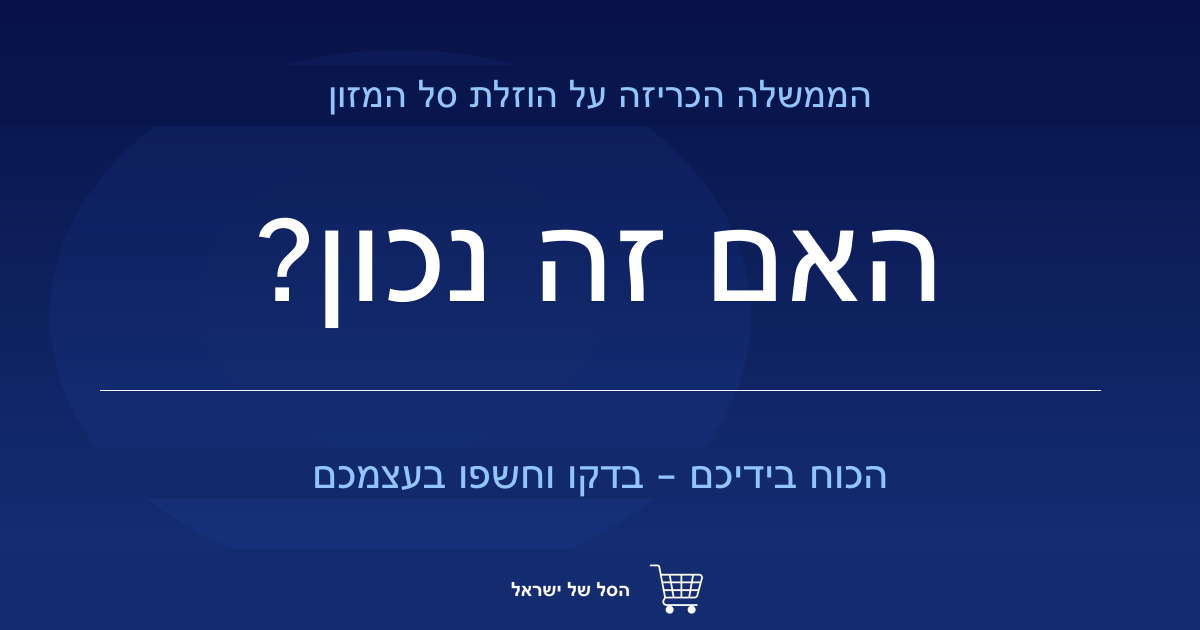
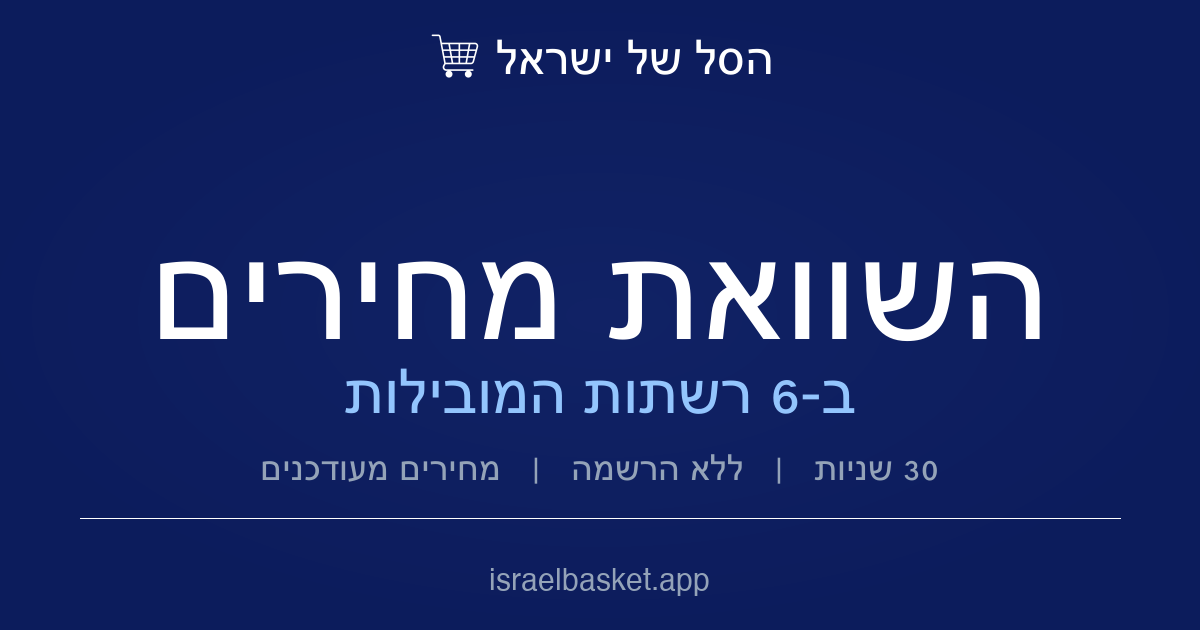
feat: rebrand header + redesign OG image with Notion-card proportions
- Header: two-line brand — "הסל של ישראל" (bold) + "השוואת מחירים" (blue-200 subtitle)
- OG image: rebuilt from scratch — centered logo, giant title, accent subtitle, tagline, URL
- index.html: update title, og:title, og:site_name, og:description, twitter:title
- make_og_final.py: rewritten to generate from scratch, no template dependency

diff --git a/israel-basket/index.html b/israel-basket/index.html
@@ -4,27 +4,27 @@
     <meta charset="UTF-8" />
     <link rel="icon" type="image/svg+xml" href="/favicon.svg" />
     <meta name="viewport" content="width=device-width, initial-scale=1.0" />
-    <meta name="description" content="הממשלה הכריזה על הוזלת סל המזון — האם זה נכון? בדקו בדיוק כמה אתם חוסכים על הסל שלכם. 6 רשתות, 30 שניות, ללא הרשמה." />
+    <meta name="description" content="בדקו כמה תחסכו על סל המזון שלכם. 6 רשתות, 30 שניות, ללא הרשמה." />
     <meta name="theme-color" content="#030712" />
 
     <!-- Open Graph -->
     <meta property="og:type"        content="website" />
     <meta property="og:url"         content="https://israelbasket.app/" />
-    <meta property="og:title"       content="הסל של ישראל — האם זה נכון?" />
-    <meta property="og:description" content="בדקו בדיוק כמה אתם חוסכים על הסל שלכם. 6 רשתות, 30 שניות, ללא הרשמה." />
+    <meta property="og:title"       content="הסל של ישראל — השוואת מחירים" />
+    <meta property="og:description" content="בדקו כמה תחסכו על סל המזון שלכם. 6 רשתות, 30 שניות, ללא הרשמה." />
     <meta property="og:image"       content="https://israelbasket.app/og-image.png" />
     <meta property="og:image:width"  content="1200" />
     <meta property="og:image:height" content="630" />
     <meta property="og:locale"      content="he_IL" />
-    <meta property="og:site_name"   content="הסל המוזל בישראל" />
+    <meta property="og:site_name"   content="הסל של ישראל" />
 
     <!-- Twitter / X Card -->
     <meta name="twitter:card"        content="summary_large_image" />
-    <meta name="twitter:title"       content="הסל של ישראל — האם זה נכון?" />
-    <meta name="twitter:description" content="בדקו בדיוק כמה אתם חוסכים על הסל שלכם. 6 רשתות, 30 שניות, ללא הרשמה." />
+    <meta name="twitter:title"       content="הסל של ישראל — השוואת מחירים" />
+    <meta name="twitter:description" content="בדקו כמה תחסכו על סל המזון שלכם. 6 רשתות, 30 שניות, ללא הרשמה." />
     <meta name="twitter:image"       content="https://israelbasket.app/og-image.png" />
 
-    <title>הסל המוזל בישראל</title>
+    <title>הסל של ישראל — השוואת מחירים</title>
 
     <!-- Google Tag -->
     <script async src="https://www.googletagmanager.com/gtag/js?id=GT-MRQGV5D4"></script>

diff --git a/israel-basket/src/components/Header.tsx b/israel-basket/src/components/Header.tsx
@@ -13,9 +13,12 @@ export default function Header({ onBotOpen }: HeaderProps) {
   return (
     <header className="sticky top-0 z-50 bg-blue-700 text-white shadow-md">
       <div className="max-w-3xl mx-auto px-4 h-14 flex items-center justify-between">
-        <NavLink to="/" className="flex items-center gap-2 font-bold text-lg tracking-wide">
+        <NavLink to="/" className="flex items-center gap-2">
           <CartIcon size={28} color="white" className="inline-block flex-shrink-0" />
-          <span>הסל המוזל בישראל</span>
+          <div className="flex flex-col leading-tight">
+            <span className="font-bold text-base tracking-wide">הסל של ישראל</span>
+            <span className="text-xs text-blue-200 font-medium">השוואת מחירים</span>
+          </div>
         </NavLink>
         {isInner && (
           <div className="flex items-center gap-2">

diff --git a/scripts/make_og_final.py b/scripts/make_og_final.py
@@ -1,32 +1,30 @@
 #!/usr/bin/env python3
 """
-Build final og-image.png from og-v3-typo.png:
-  1. Remove bottom URL bar (natural cut at y=549)
-  2. Repaint top subtitle and bottom CTA line at larger size, accent color
-  3. Composite logo-on-dark.png (white logo) centered at bottom
-  4. Save to docs/media/assets/ and israel-basket/public/
+Generate og-image.png from scratch — Notion-card proportions:
+  large bold title, clear hierarchy, minimal chrome.
+Outputs to docs/media/assets/ and israel-basket/public/.
 """
 import os, subprocess, tempfile
 from PIL import Image, ImageDraw, ImageFont
 from bidi.algorithm import get_display
 
 BASE   = "/Users/eranmoradi/Claude/israel basket"
-SRC    = f"{BASE}/docs/media/assets/og-v3-typo.png"
 OUT    = f"{BASE}/docs/media/assets/og-image.png"
 PUBLIC = f"{BASE}/israel-basket/public/og-image.png"
 
-FONT_PATH = "/System/Library/Fonts/ArialHB.ttc"
-ACCENT    = (147, 197, 253, 255)   # Tailwind blue-300 — pops on dark navy
-WHITE     = (255, 255, 255, 255)
+FONT_PATH      = "/System/Library/Fonts/ArialHB.ttc"
+FONT_PATH_LATIN = "/System/Library/Fonts/Helvetica.ttc"
 
-# Background colors sampled from og-v3-typo.png at relevant rows
-BG_TOP    = (9,  22,  78,  255)   # y≈85-110  (top subtitle area)
-BG_BOTTOM = (18, 41, 107, 255)    # y≈455-490 (bottom CTA area)
-BG_FOOTER = (7,  15,  38,  255)   # y≈550+    (footer bar)
+W, H = 1200, 630
+
+BG        = (12, 28, 92)          # dark navy
+WHITE     = (255, 255, 255, 255)
+ACCENT    = (147, 197, 253, 255)  # Tailwind blue-300
+MUTED     = (148, 163, 184, 255)  # Tailwind slate-400
+SEPARATOR = (255, 255, 255, 40)   # subtle white line
 
 CART_X, CART_Y = 154.0, 299.0
 CART_W, CART_H = 900.0, 865.0
-
 CART_PATH_D = (
     "M1023.738,462.853H360.523l-23.554-123.555c-4.425-23.215-24.791-40.065-48.425-40.065H170.049"
     "c-8.864,0-16.049,7.185-16.049,16.049s7.185,16.049,16.049,16.049h118.495"
@@ -56,17 +54,23 @@ CART_PATH_D = (
 )
 
 
-def draw_centered_text(draw, img_w, y_center, text_he, font, color):
-    """Draw Hebrew text centered horizontally at y_center."""
-    visual = get_display(text_he)
-    bbox   = draw.textbbox((0, 0), visual, font=font)
-    tw     = bbox[2] - bbox[0]
-    th     = bbox[3] - bbox[1]
-    x      = (img_w - tw) // 2
+def bidi(text):
+    return get_display(text)
+
+
+def text_size(draw, text, font):
+    bb = draw.textbbox((0, 0), text, font=font)
+    return bb[2] - bb[0], bb[3] - bb[1]
+
+
+def draw_centered(draw, y_center, text_he, font, color, img_w=W):
+    visual = bidi(text_he)
+    tw, th = text_size(draw, visual, font)
+    x = (img_w - tw) // 2
     draw.text((x, y_center - th // 2), visual, font=font, fill=color)
 
 
-def render_cart_png(icon_size: int, color: str = "white") -> str:
+def render_cart_png(icon_size, color="white"):
     cart_h = int(icon_size * 0.78)
     cart_w = CART_W / CART_H * cart_h
     cart_x = (icon_size - cart_w) / 2
@@ -75,8 +79,7 @@ def render_cart_png(icon_size: int, color: str = "white") -> str:
     tx = cart_x - CART_X * s
     ty = cart_y - CART_Y * s
     svg = (
-        f'<svg xmlns="http://www.w3.org/2000/svg"'
-        f' width="{icon_size}" height="{icon_size}">'
+        f'<svg xmlns="http://www.w3.org/2000/svg" width="{icon_size}" height="{icon_size}">'
         f'<g transform="translate({tx:.3f},{ty:.3f}) scale({s:.6f})">'
         f'<path d="{CART_PATH_D}" fill="{color}" fill-rule="evenodd"/>'
         f'</g></svg>'
@@ -92,42 +95,64 @@ def render_cart_png(icon_size: int, color: str = "white") -> str:
 
 
 def main():
-    img  = Image.open(SRC).convert("RGBA")
-    w, h = img.size   # 1200x630
+    img  = Image.new("RGBA", (W, H), (*BG, 255))
     draw = ImageDraw.Draw(img)
 
-    # ── 1. Remove bottom footer — fill with main content bg so no dark strip ─
-    BG_MAIN = (19, 44, 112, 255)   # matches surrounding background at y≈545
-    draw.rectangle([(0, 549), (w, h)], fill=BG_MAIN)
+    # ── subtle radial glow in center (paint a lighter oval) ──────────────
+    glow = Image.new("RGBA", (W, H), (0, 0, 0, 0))
+    gd   = ImageDraw.Draw(glow)
+    for r in range(320, 0, -1):
+        alpha = int(18 * (1 - r / 320))
+        gd.ellipse([(W//2 - r*2, H//2 - r), (W//2 + r*2, H//2 + r)],
+                   fill=(80, 120, 220, alpha))
+    img = Image.alpha_composite(img, glow)
+    draw = ImageDraw.Draw(img)
 
-    # ── 2. Repaint top subtitle ───────────────────────────────────────────
-    draw.rectangle([(0, 65), (w, 125)], fill=BG_TOP)
-    font_sub = ImageFont.truetype(FONT_PATH, 38)
-    draw_centered_text(draw, w, 97, "הממשלה הכריזה על הוזלת סל המזון", font_sub, ACCENT)
+    # ── top brand strip — centered ────────────────────────────────────────
+    TOP_Y = 56
+    font_brand = ImageFont.truetype(FONT_PATH, 48)
+    brand_text = bidi("הסל של ישראל")
+    bw, bh = text_size(draw, brand_text, font_brand)
 
-    # ── 3. Repaint bottom CTA line ────────────────────────────────────────
-    draw.rectangle([(0, 448), (w, 498)], fill=BG_BOTTOM)
-    font_cta = ImageFont.truetype(FONT_PATH, 42)
-    draw_centered_text(draw, w, 473, "הכוח בידיכם — בדקו וחשפו בעצמכם", font_cta, ACCENT)
+    # Cart icon 56px, centered with text
+    cart_size = 56
+    cart_png  = render_cart_png(cart_size, color="white")
+    cart_img  = Image.open(cart_png).convert("RGBA")
+    os.unlink(cart_png)
 
-    # ── 4. Logo centered at bottom strip ─────────────────────────────────
-    logo_raw = Image.open(f"{BASE}/docs/media/assets/logo-on-dark.png").convert("RGBA")
-    pixels   = logo_raw.load()
-    lw, lh   = logo_raw.size
-    for ly in range(lh):
-        for lx in range(lw):
-            r, g, b, a = pixels[lx, ly]
-            if r < 40 and g < 40 and b < 100:
-                pixels[lx, ly] = (r, g, b, 0)
+    gap      = 14
+    group_w  = cart_size + gap + bw
+    group_x  = (W - group_w) // 2
+    icon_y   = TOP_Y - cart_size // 2
+    img.paste(cart_img, (group_x, icon_y), cart_img)
+    draw.text((group_x + cart_size + gap, TOP_Y - bh // 2), brand_text,
+              font=font_brand, fill=WHITE)
 
-    target_h = 70
-    target_w = int(lw * target_h / lh)
-    logo_img = logo_raw.resize((target_w, target_h), Image.LANCZOS)
+    # ── main title "השוואת מחירים" — HUGE ────────────────────────────────
+    TITLE_Y = 270
+    font_title = ImageFont.truetype(FONT_PATH, 148)
+    draw_centered(draw, TITLE_Y, "השוואת מחירים", font_title, WHITE)
 
-    strip_h  = h - 549
-    paste_x  = (w - target_w) // 2
-    paste_y  = 549 + (strip_h - target_h) // 2
-    img.paste(logo_img, (paste_x, paste_y), logo_img)
+    # ── subtitle "ב-6 רשתות" — large accent ──────────────────────────────
+    SUB_Y = 390
+    font_sub = ImageFont.truetype(FONT_PATH, 62)
+    draw_centered(draw, SUB_Y, "ב-6 רשתות המובילות", font_sub, ACCENT)
+
+    # ── tagline — medium muted ────────────────────────────────────────────
+    TAG_Y = 468
+    font_tag = ImageFont.truetype(FONT_PATH, 36)
+    draw_centered(draw, TAG_Y, "30 שניות   |   ללא הרשמה   |   מחירים מעודכנים", font_tag, MUTED)
+
+    # ── separator ─────────────────────────────────────────────────────────
+    SEP_Y = 518
+    draw.line([(80, SEP_Y), (W - 80, SEP_Y)], fill=SEPARATOR, width=1)
+
+    # ── URL at bottom (Latin font) ─────────────────────────────────────────
+    URL_Y = 580
+    font_url = ImageFont.truetype(FONT_PATH_LATIN, 30)
+    url_text = "israelbasket.app"
+    uw, uh = text_size(draw, url_text, font_url)
+    draw.text(((W - uw) // 2, URL_Y - uh // 2), url_text, font=font_url, fill=MUTED)
 
     img.convert("RGB").save(OUT, "PNG")
     img.convert("RGB").save(PUBLIC, "PNG")
